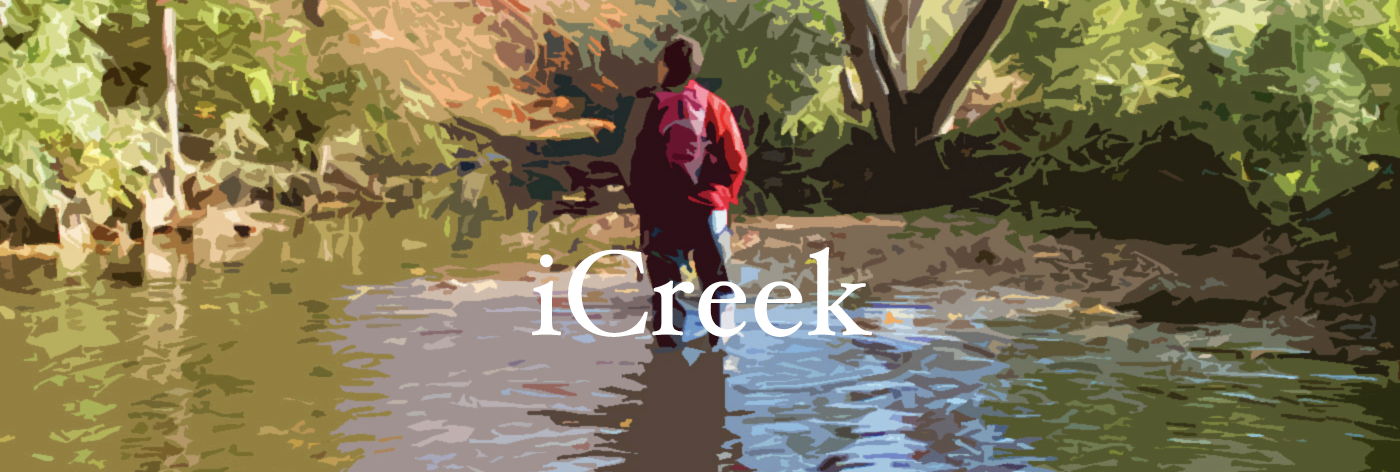
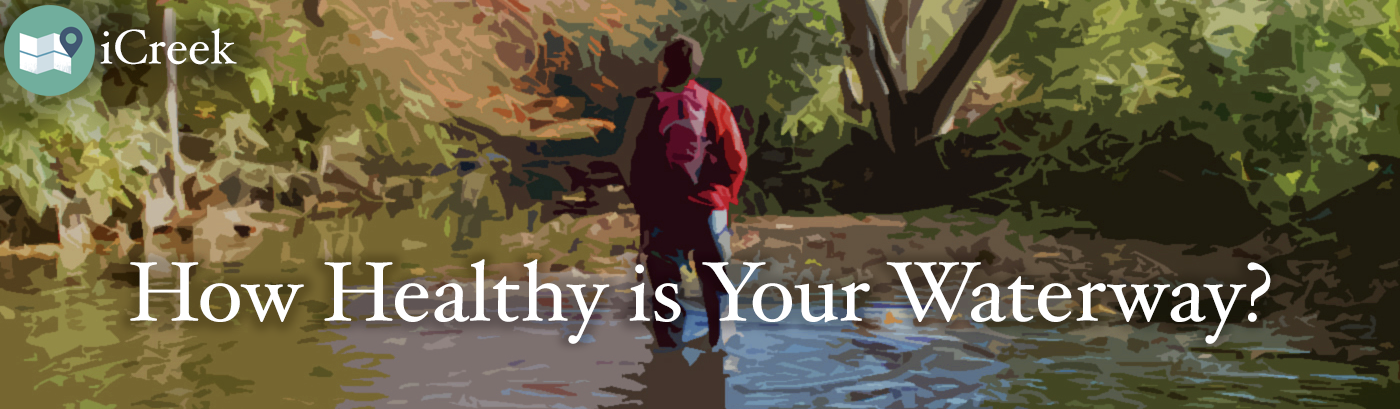
Changing to map layout

diff --git a/index.html b/index.html
@@ -20,117 +20,92 @@
 
     <title>Welcome to iCreek</title>
   </head>
-  <body class="row calcite-maps calcite-nav-top">
 
-    <div class="container">
-      <img src="assets/banner.png" class="img-fluid" alt="Responsive image" id="heading-img">
-
-      <div id="call-to-action" class="row" style="padding-bottom:1em; background: rgba(255, 255, 255, 0.75);">
-        <div class="col-md" align="center">
-          <h1 class="display-3 text-center main-heading">How Healthy is Your Water?</h1>
-          <!-- <div class="input-group mb-3"> -->
-          <!--   <div class="input-group-prepend"> -->
-          <!--     <span class="input-group-text" id="inputGroup-sizing-default">Address</span> -->
-          <!--   </div> -->
-          <!--   <input type="text" class="form-control" aria-label="Default" aria-describedby="inputGroup-sizing-default" id="AddressInput" required> -->
-          <!--   <div class="input-group-append"> -->
-          <!--     <button class="btn btn-primary bg-info border-info" type="button" data-toggle="tooltip" data-placement="bottom" title="Search" onclick="getLatLongFromAddress();"> -->
-          <!--       <span><i class="fas fa-search"></i></span> -->
-          <!--     </button> -->
-          <!--   </div> -->
-          <!--     <button class="btn btn-primary bg-info border-info" id="current-location-btn" type="button" data-toggle="tooltip" data-placement="bottom" title="Use current location" onclick="getAddressFromBrowserLocation();"> -->
-          <!--       <span><i class="fas fa-location-arrow"></i></span> -->
-          <!--     </button> -->
-          <!--   </div> -->
-          <!-- <div class="calcite-navbar-search"> -->
-          <div id="searchWidgetDiv"></div>
-          <!-- </div> -->
+  <body class="calcite-maps calcite-nav-top">
+      <!-- Navbar -->
+    
+      <nav class="navbar calcite-navbar navbar-fixed-top calcite-text-light calcite-bg-dark">
+        <!-- Menu -->
+        <div class="dropdown calcite-dropdown calcite-text-dark calcite-bg-light" role="presentation">
+          <a class="dropdown-toggle" role="menubutton" aria-haspopup="true" aria-expanded="false" tabindex="0">
+            <div class="calcite-dropdown-toggle">
+              <span class="sr-only">Toggle dropdown menu</span>
+              <span></span>
+              <span></span>
+              <span></span>
+              <span></span>
+            </div>
+          </a>
+          <ul class="dropdown-menu" role="menu">
+            <li><a role="menuitem" tabindex="0" data-target="#panelInfo" aria-haspopup="true"><span class="glyphicon glyphicon-info-sign"></span> About</a></li>
+            <li><a role="menuitem" tabindex="0" href="#" data-target="#panelLegend" aria-haspopup="true"><span class="glyphicon glyphicon-list-alt"></span> Legend</a></li>
+            <li><a role="menuitem" tabindex="0" href="#" id="calciteToggleNavbar" aria-haspopup="true"><span class="glyphicon glyphicon-fullscreen"></span> Full Map</a></li>
+          </ul>
         </div>
-      </div>
-
-      <div id="map" class="row">
+        <!-- Title -->
+        <div class="calcite-title calcite-overflow-hidden">
+          <span class="calcite-title-main">Calcite Maps</span>
+          <span class="calcite-title-divider hidden-xs"></span>
+          <span class="calcite-title-sub hidden-xs">How Healthy is Your Waterway?</span>
+        </div>
         <!-- Nav -->
-        <nav class="navbar calcite-navbar navbar-fixed-top calcite-text-dark calcite-bg-light" style="background: rgba(255, 246, 212, 0.99);">
-          <!-- Menu -->
-          <!-- <div class="dropdown calcite-dropdown calcite-text-dark calcite-bg-light" role="presentation"> -->
-            <!-- <a class="dropdown-toggle" role="menubutton" aria-haspopup="true" aria-expanded="false" tabindex="0"> -->
-            <!--   <div class="calcite-dropdown-toggle"> -->
-            <!--     <span class="sr-only">Toggle dropdown menu</span> -->
-            <!--     <span></span> -->
-            <!--     <span></span> -->
-            <!--     <span></span> -->
-            <!--     <span></span> -->
-            <!--   </div> -->
-            <!-- </a> -->
-            <!-- <ul class="dropdown-menu" role="menu"> -->
-            <!--   <li><a role="menuitem" tabindex="0" data-target="#panelInfo" aria-haspopup="true"><span class="glyphicon glyphicon-info-sign"></span> About</a></li> -->
-            <!--   <li><a role="menuitem" tabindex="0" href="#" data-target="#panelLegend" aria-haspopup="true"><span class="glyphicon glyphicon-list-alt"></span> Legend</a></li> -->
-            <!-- </ul> -->
-          <!-- </div> -->
-          <!-- Title -->
-          <div class="calcite-title calcite-overflow-hidden">
-            <!-- TODO: Remove the hacky &nbsp; -->
-            <span class="calcite-title-main">&nbsp; iCreek</span>
-            <span class="calcite-title-divider hidden-xs"></span>
-            <span class="calcite-title-sub hidden-xs">Brought to you by <em>Cumberland River Compact</em></span>
-          </div>
-        </nav>
-
-        <!-- Map -->
-        <div class="calcite-map calcite-map-absolute">
-          <div id="mapViewDiv"></div>
-        </div>
-
-        <!-- Panels -->
-        <div class="calcite-panels calcite-panels-left calcite-text-dark calcite-bg-light panel-group">
-
-          <!-- About Panel -->
-          <!-- <div id="panelInfo" class="panel collapse in"> -->
-          <!--   <div id="headingInfo" class="panel-heading" role="tab"> -->
-          <!--     <div class="panel-title"> -->
-          <!--       <a class="panel-toggle" role="button" data-toggle="collapse" href="#collapseInfo"  aria-expanded="true" aria-controls="collapseInfo"><span class="glyphicon glyphicon-info-sign" aria-hidden="true"></span><span class="panel-label">About</span></a> -->
-          <!--       <a class="panel-close" role="button" data-toggle="collapse" tabindex="0" href="#panelInfo"><span class="esri-icon esri-icon-close" aria-hidden="true"></span></a> -->
-          <!--     </div> -->
-          <!--   </div> -->
-          <!--   <div id="collapseInfo" class="panel-collapse collapse in" role="tabpanel" aria-labelledby="headingInfo"> -->
-          <!--     <div class="panel-body"> -->
-          <!--       <p>This is my map app!</p> -->
-          <!--     </div> -->
-          <!--   </div> -->
-          <!-- </div> -->
-
-          <!-- Legend Panel -->
-          <!-- <div id="panelLegend" class="panel collapse"> -->
-          <!--   <div id="headingLegend" class="panel-heading" role="tab"> -->
-          <!--     <div class="panel-title"> -->
-          <!--       <a class="panel-toggle" role="button" data-toggle="collapse" href="#collapseLegend" aria-expanded="false" aria-controls="collapseLegend"><span class="glyphicon glyphicon-list-alt" aria-hidden="true"></span><span class="panel-label">Legend</span></a> -->
-          <!--       <a class="panel-close" role="button" data-toggle="collapse" tabindex="0" href="#panelLegend"><span class="esri-icon esri-icon-close" aria-hidden="true"></span></a> -->
-          <!--     </div> -->
-          <!--   </div> -->
-          <!--   <div id="collapseLegend" class="panel-collapse collapse" role="tabpanel" aria-labelledby="headingLegend"> -->
-          <!--     <div class="panel-body"> -->
-          <!--       <div id="legendDiv"></div> -->
-          <!--     </div> -->
-          <!--   </div> -->
-          <!-- </div> -->
-          <!-- </div> -->
-
-          <!-- Result Panel -->
-          <div id="panelResult" class="panel collapse">
-            <div id="headingResult" class="panel-heading" role="tab">
-              <div class="panel-title">
-                <a class="panel-toggle" role="button" data-toggle="collapse" href="#collapseResult" aria-expanded="false" aria-controls="collapseLegend"><span class="glyphicon glyphicon-list-alt" aria-hidden="true"></span><span class="panel-label">Result</span></a>
-                <a class="panel-close" role="button" data-toggle="collapse" tabindex="0" href="#panelResult"><span class="esri-icon esri-icon-close" aria-hidden="true"></span></a>
-              </div>
+        <ul class="nav navbar-nav calcite-nav">
+          <li>
+            <!-- <div class="calcite-navbar-search calcite-search-expander"> -->
+              <div id="searchWidgetDiv"></div>
+            <!-- </div> -->
+          </li>
+        </ul>
+      </nav>
+    
+      <!--/.calcite-navbar -->
+    
+      <!-- Map  -->
+    
+      <div class="calcite-map calcite-map-absolute">
+        <div id="mapViewDiv"></div>
+      </div>
+    
+      <!-- /.calcite-map -->
+    
+      <!-- Panels -->
+    
+      <div class="calcite-panels calcite-panels-right calcite-text-light calcite-bg-dark panel-group">
+    
+        <!-- Panel - Basemaps -->
+    
+        <div id="panelInfo" class="panel collapse in">
+          <div id="headingInfo" class="panel-heading" role="tab">
+            <div class="panel-title">
+              <a class="panel-toggle" role="button" data-toggle="collapse" href="#collapseInfo"  aria-expanded="true" aria-controls="collapseInfo"><span class="glyphicon glyphicon-info-sign" aria-hidden="true"></span><span class="panel-label">About</span></a> 
+              <a class="panel-close" role="button" data-toggle="collapse" tabindex="0" href="#panelInfo"><span class="esri-icon esri-icon-close" aria-hidden="true"></span></a>  
             </div>
-            <div id="collapseResult" class="panel-collapse collapse" role="tabpanel" aria-labelledby="headingResult">
-              <div class="panel-body">
-                <div id="resultDiv"></div>
-              </div>
+          </div>
+          <div id="collapseInfo" class="panel-collapse collapse in" role="tabpanel" aria-labelledby="headingInfo">
+            <div class="panel-body">
+              <p>This is my map app!</p>
+            </div>
+         </div>
+        </div>
+    
+        <!-- Panel - Legend -->
+    
+        <div id="panelLegend" class="panel collapse">
+          <div id="headingLegend" class="panel-heading" role="tab">
+            <div class="panel-title">
+              <a class="panel-toggle" role="button" data-toggle="collapse" href="#collapseLegend" aria-expanded="false" aria-controls="collapseLegend"><span class="glyphicon glyphicon-list-alt" aria-hidden="true"></span><span class="panel-label">Legend</span></a> 
+              <a class="panel-close" role="button" data-toggle="collapse" tabindex="0" href="#panelLegend"><span class="esri-icon esri-icon-close" aria-hidden="true"></span></a> 
+            </div>
+          </div>
+          <div id="collapseLegend" class="panel-collapse collapse" role="tabpanel" aria-labelledby="headingLegend">
+            <div class="panel-body">            
+              <div id="legendDiv"></div>
             </div>
           </div>
         </div>
-
+    
+      </div>
+        
         <script type="text/javascript">
           var dojoConfig = {
             packages: [{
@@ -368,8 +343,6 @@
         <!-- <div class="col-md"> -->
         <!--     <div id="map"></div> -->
         <!-- </div> -->
-      </div>
-    </div>
 
     <script src="https://code.jquery.com/jquery-3.3.1.min.js"></script>
     <script src="https://cdnjs.cloudflare.com/ajax/libs/popper.js/1.12.9/umd/popper.min.js" integrity="sha384-ApNbgh9B+Y1QKtv3Rn7W3mgPxhU9K/ScQsAP7hUibX39j7fakFPskvXusvfa0b4Q" crossorigin="anonymous"></script>
